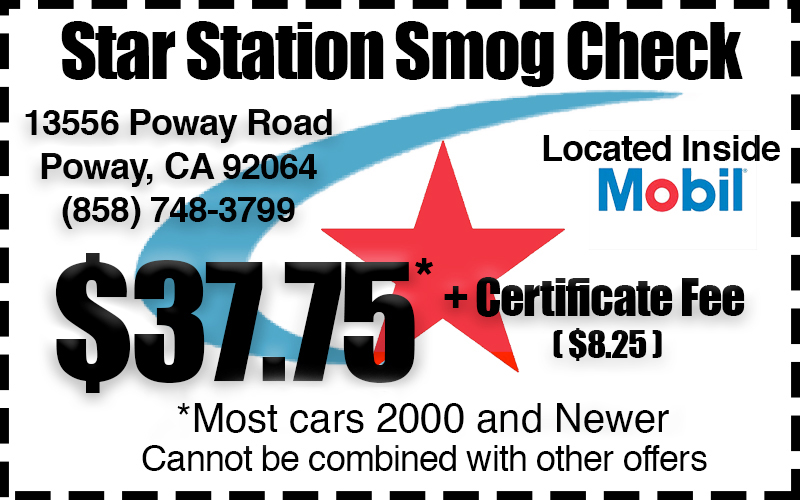
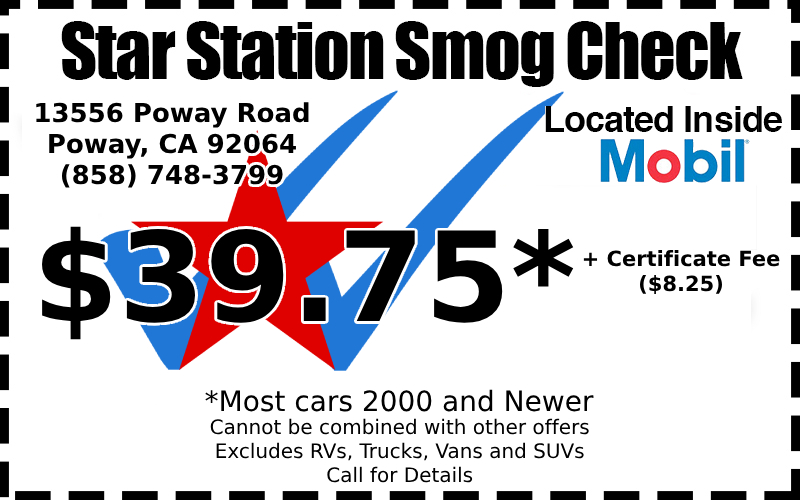
Update coupon and services

diff --git a/index.html b/index.html
@@ -91,7 +91,7 @@
         </i>
         <h1 class="title-mobile hide-for-medium">Star Station</h1>
         <h1 class="title-mobile hide-for-medium">Smog Check</h1>
-        <p class="lead subheader">Star certified smog checks, including Hybrids and Diesel Vehicles</p>
+        <p class="lead subheader">Star Certified and Regular Smog Checks, including Diesels, Hybrids, and RVs</p>
         <p class="lead subheader">Open 7 days a week! Call for Holiday Hours</p>
         <a href="tel:858-748-3799" class="button large hide-for-small-only">Contact Us: (858) 748-3799</a>
         <a href="tel:858-748-3799" class="button large hide-for-medium">(858) 748-3799</a>